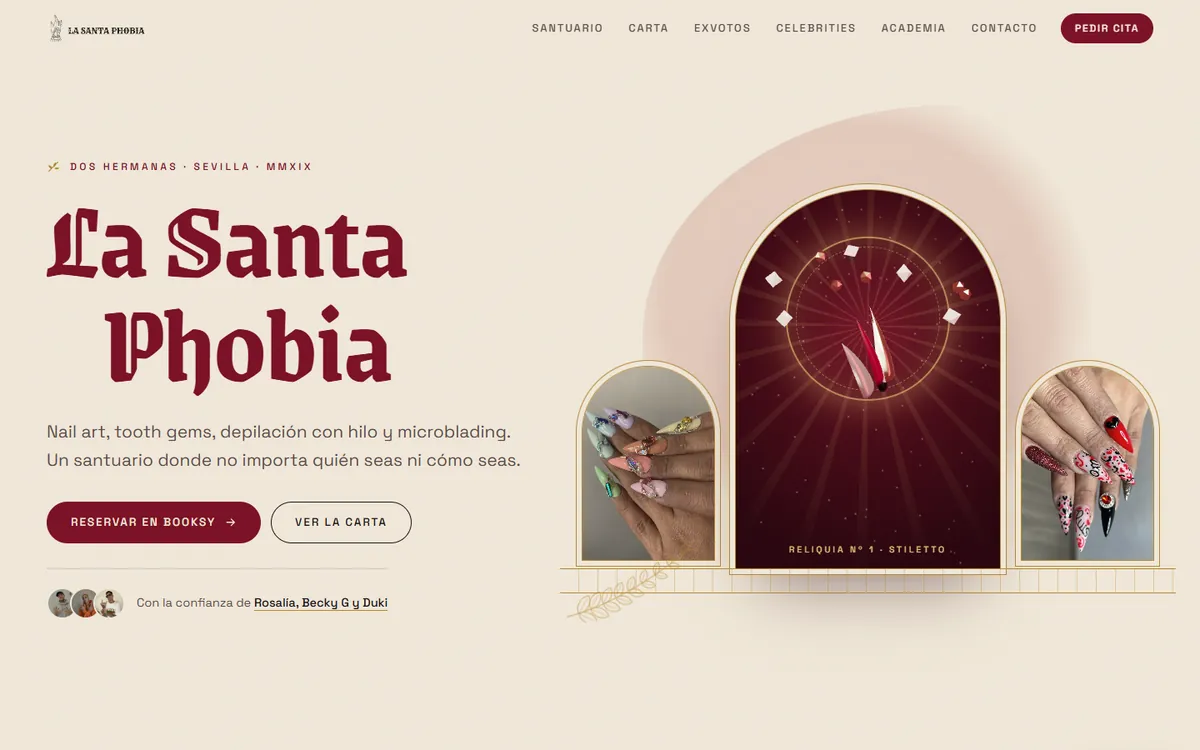
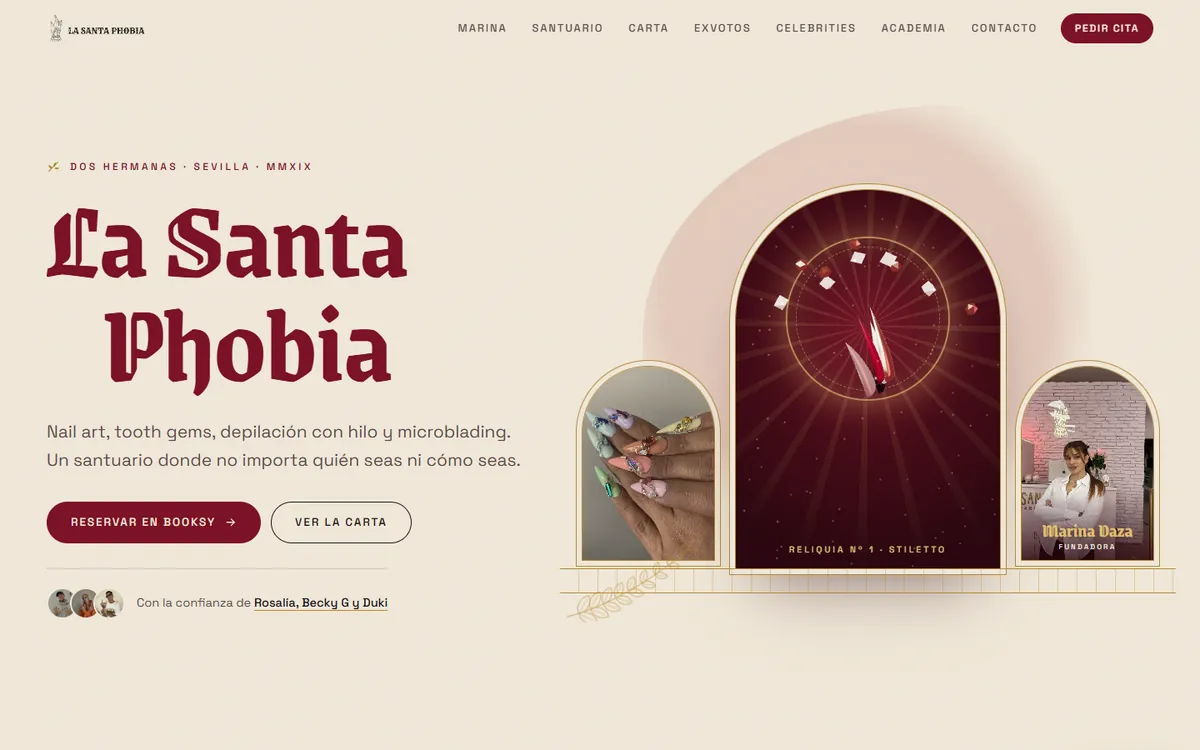
Actualiza la captura de La Santa Phobia con Marina en el retablo

diff --git a/index.html b/index.html
@@ -265,7 +265,7 @@
           <article class="project reveal">
             <a class="project__frame tilt" href="https://ercarlo672.github.io/la-santa-phobia/" target="_blank" rel="noopener">
               <div class="project__bar"><i></i><i></i><i></i><span class="mono">ercarlo672.github.io/la-santa-phobia</span></div>
-              <img src="assets/shots/la-santa-phobia.webp?v=20261018b" alt="Página de inicio de La Santa Phobia con el titular en letra gótica granate sobre papel crema y arcos dorados con uñas" loading="lazy" width="1200" height="750">
+              <img src="assets/shots/la-santa-phobia.webp?v=20261018c" alt="Página de inicio de La Santa Phobia con el titular en letra gótica granate y un retablo de arcos dorados con uñas en 3D y la fundadora, Marina Daza" loading="lazy" width="1200" height="750">
             </a>
             <div class="project__meta">
               <p class="mono c-mut">2026 · <span data-i18n="p6.type">Web de marca + 3D</span></p>
